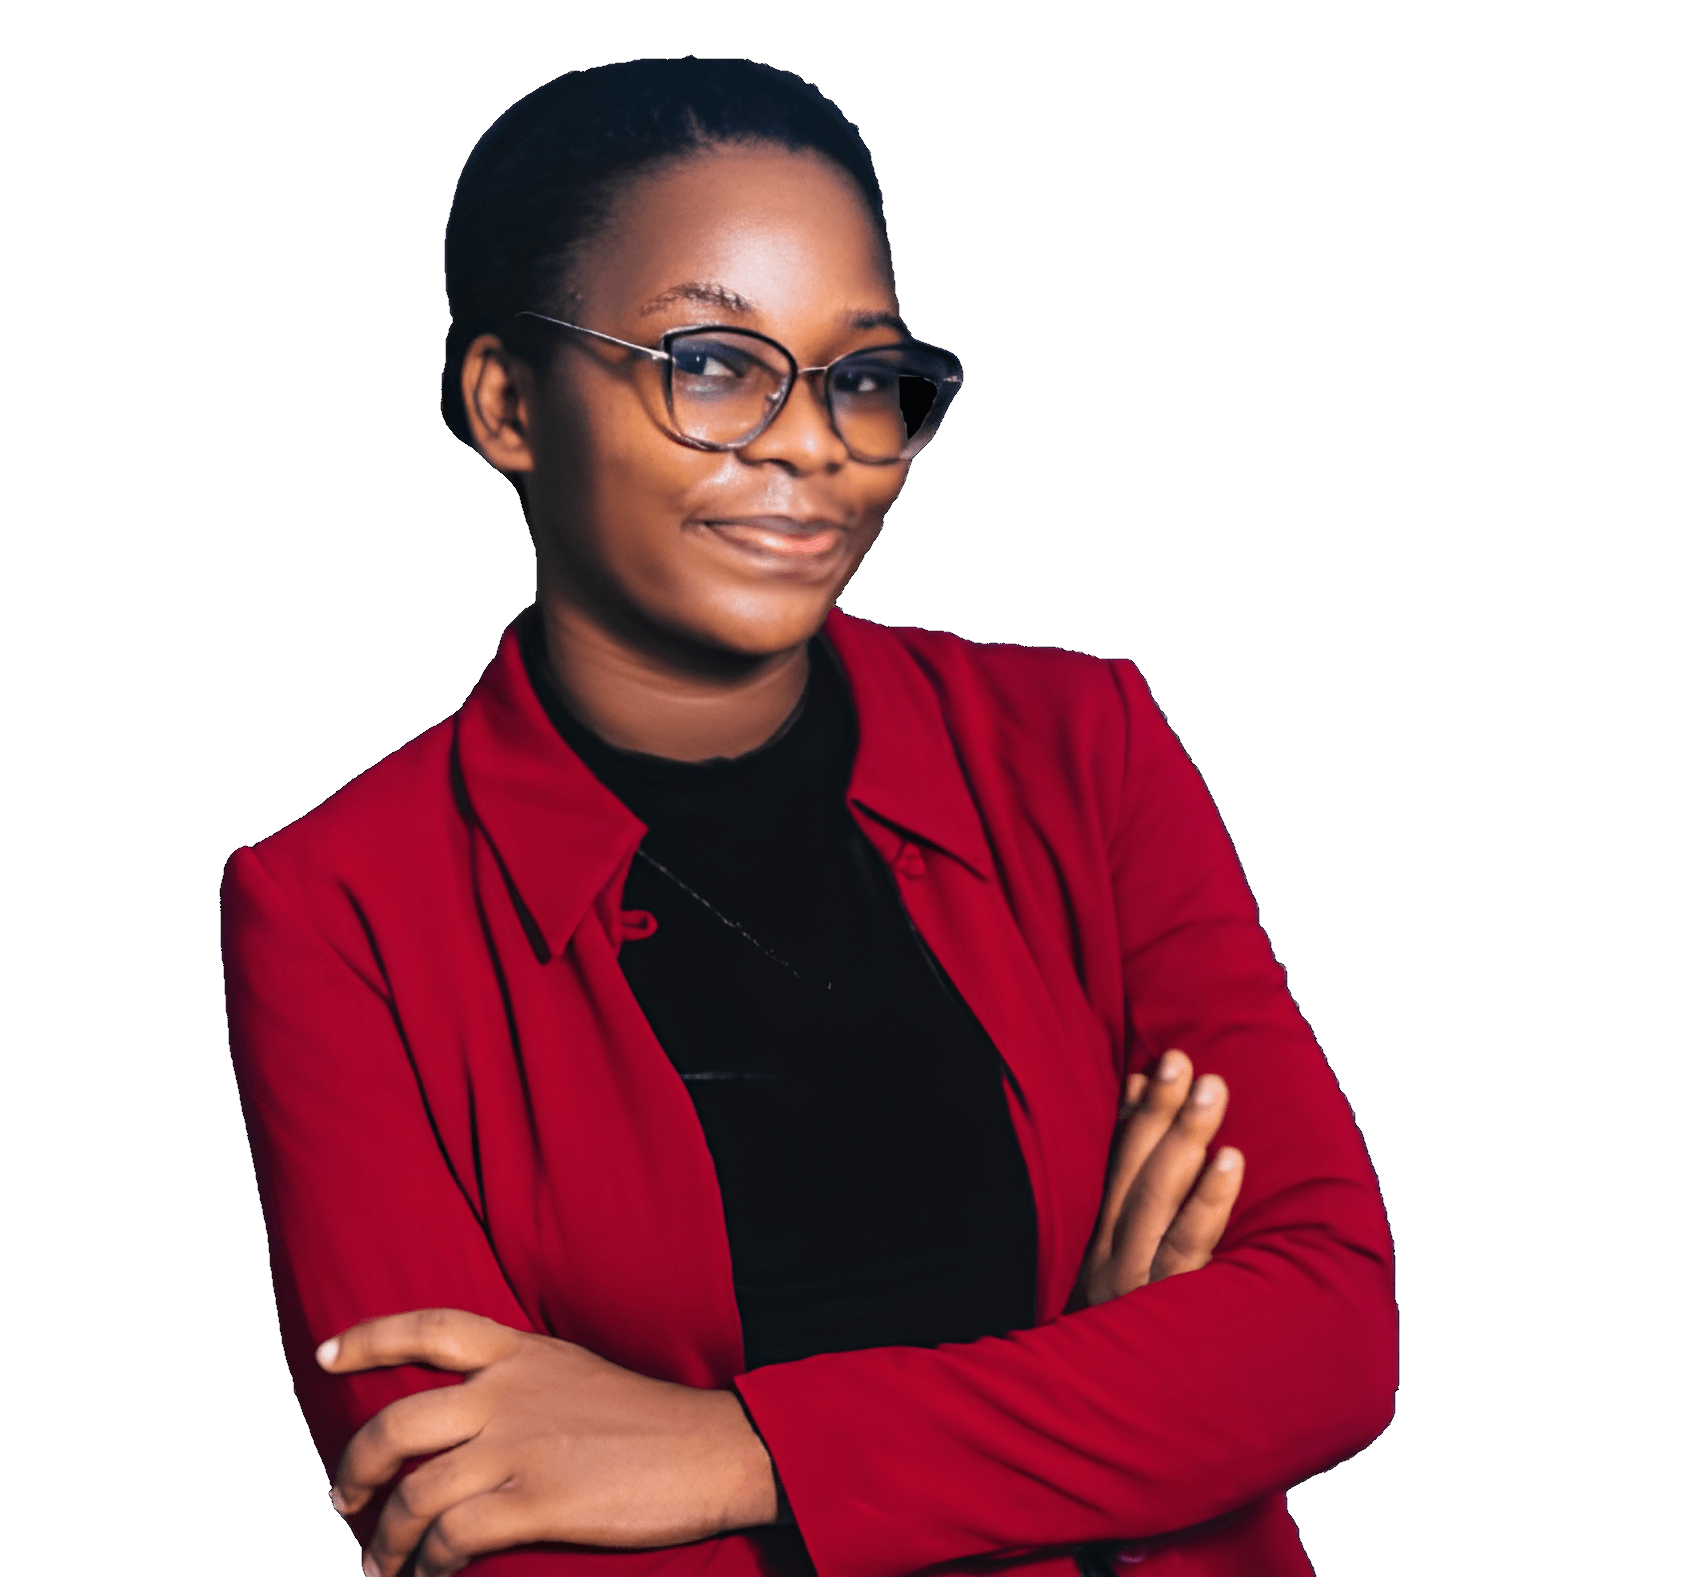
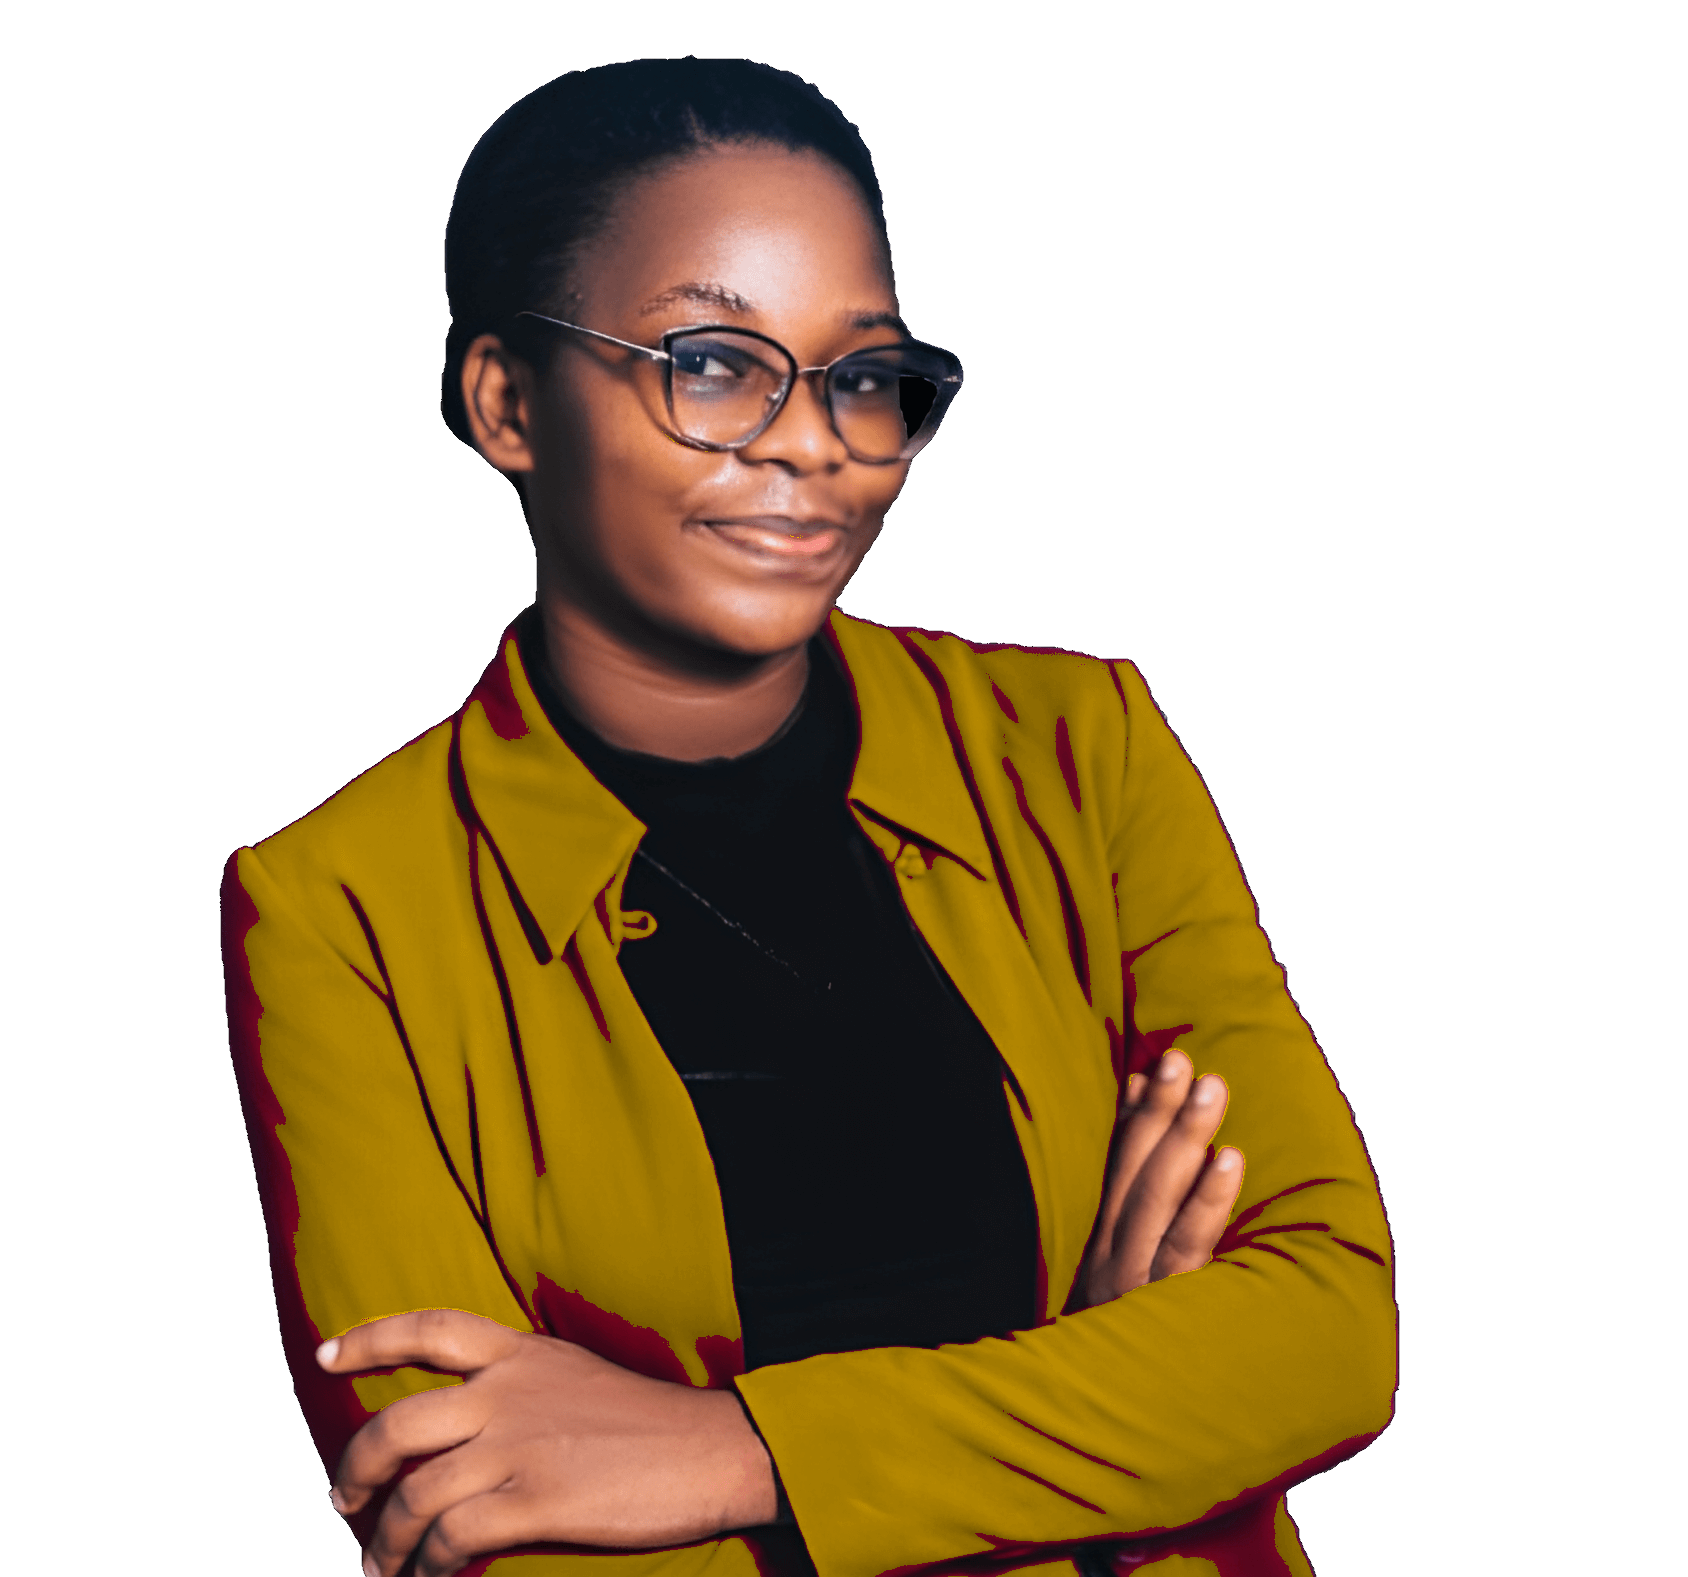
Assets and theme changed

Changed region(s): [[0.1232, 0.3729, 0.8318, 1.0], [0.2156, 0.87, 0.2773, 0.9011]]

diff --git a/assets/css/home.css b/assets/css/home.css
@@ -21,7 +21,7 @@ section#home {
     height: 100%;
     opacity: 0.3;
 } */
-.video-bg {
+/* .video-bg {
     position: absolute;
     top: 0;
     left: 0;
@@ -37,7 +37,7 @@ video.video-bg__content {
     top: 0;
     left: 0;
     z-index: -1;
-}
+} */
 
 .home-content-wrapper {
     display: grid;
@@ -55,7 +55,7 @@ h1.hom-title {
 
 button.form-trigger-btn, button.form-trigger-btn-2 {
     background-color: var(--pry-color);
-    color: white;
+    color: black;
     font-family: var(--font-smbold);
     font-size: 16px;
     padding: 14px 32px;
@@ -73,7 +73,7 @@ button.form-trigger-btn-2 {
     font-size: 12px;
     padding: 8px 12px;
     width: fit-content;
-    background: rgba(195, 33, 30, 0.8);
+    background: rgba(254, 192, 7, 0.8);
     color: white;
     border-radius: 6px;
     margin-bottom: 16px;
@@ -93,7 +93,7 @@ ul.checkmark-list {
 ul.checkmark-list li {
     font-size: 12px;
     font-family: var(--font-smbold);
-    border: 1px solid black;
+    border: 1px solid whitesmoke;
     padding: 10px 20px;
     border-radius: 12px;
     line-height: 1.5;
@@ -137,3 +137,70 @@ ul.checkmark-list li {
 }
 
 /**** end of Hero-Section Styles ****/
+
+
+/**** Testimonial-Section Styles ****/
+section#testimonials {
+    position: relative;
+    padding: 50px 0;
+}
+section#testimonials::before {
+    position: absolute;
+    content: "";
+    width: 100%;
+    height: 100%;
+    left: 0;
+    top: 0;
+    /* background: url(../images/wave-2.svg); */
+    background-size: 100%;
+    background-position: top;
+    background-repeat: no-repeat;
+}
+.testimony-block {
+    display: flex;
+    flex-direction: column;
+    align-items: flex-start;
+}
+.testimonials-wrapper {
+    /* margin: 30px auto 15px;
+    width: 90%; */
+    display: grid;
+    grid-template-columns: repeat(3, 1fr);
+    gap: 30px;
+    margin: 50px auto;
+}
+.testimony-block img {
+    width: 80px;
+    border-radius: 50%;
+}
+.testimony-block blockquote {
+    border-left: 5px solid white;
+    font-size: 20px;
+    /* border-left: none; */
+    /* padding: 15px; */
+    margin-left: 30px;
+}
+.testimony-block blockquote div.testifier {
+    font-size: 14px;
+    opacity: 0.8;
+    margin-top: 15px;
+}
+
+@media(max-width: 992px) {}
+
+@media(max-width: 600px) {
+    .testimonials-wrapper {
+        margin-top: 60px;
+        display: flex;
+        flex-direction: column;
+        gap: 50px;
+    }
+    .testimony-block {
+        flex-direction: column;
+        gap: 30px;
+    }
+    .testimony-block blockquote {
+        margin: auto;
+    }
+}
+/**** end of Testimonial-Section Styles ****/

diff --git a/components/Footer.vue b/components/Footer.vue
@@ -4,16 +4,16 @@
         <div class="container">
           <div class="footer-text-wrapper max-w-[898px] mt-[60px] mb-[15px] mx-auto text-center">
             <div class="footer-logo flex justify-center mt-[50px] mb-[30px]">
-              <img src="~/assets/images/dms-logo.png" alt="DMS" class="w-[150px] md:w-[200px]">
+              <img src="~/assets/images/DMS-logo-yellow.png" alt="DMS" class="w-[150px] md:w-[200px]">
             </div>
 
-            <div class="footer-tnc-wrapper my-[30px]">
+            <div class="footer-tnc-wrapper my-[30px] text-[14px]">
                 <a href="#privacy-policy">Privacy Policy</a>
                 <span>|</span>
                 <a href="#terms-and-conditions">Terms of Service</a>
             </div>
 
-            <div class="contacts-wrapper flex-div gap-[40px] justify-center my-[30px]">
+            <div class="contacts-wrapper flex-div gap-[40px] justify-center my-[30px] text-[16px] md:text-[18px]">
                 <div class="contact-item flex-div gap-[5px]">
                     <img src="~/assets/images/phone.svg" alt="phone">
                     <div>
@@ -43,7 +43,7 @@
               </a>
             </div>
 
-            <div class="footer-copyright-div text-[#212337] text-[16px] md:text-[18px]">
+            <div class="footer-copyright-div text-[#ffffffa3] text-[14px]">
               © {{ new Date().getFullYear() }} Digital Milestone Solutions. All rights reserved
             </div>
           </div>

diff --git a/assets/css/navbar.css b/assets/css/navbar.css
@@ -13,7 +13,7 @@ nav.main-nav {
 nav.main-nav.scrolled-nav {
     position: fixed;
     top: 0;
-    background-color: white;
+    background-color: black;
 }
 
 nav ul a:hover {
@@ -33,7 +33,7 @@ ul#nav-mobile ul:not(.dropdown-content)>li {
 }
 
 nav.main-nav ul>li>a {
-    color: #010101;
+    color: #ffffff;
     font-weight: 400;
     font-size: 14px;
     line-height: 16px;
@@ -48,7 +48,7 @@ a.nuxt-link-active {
 
 nav.main-nav.scrolled-nav ul>li>a,
 nav.main-nav.nav-2 ul>li>a {
-    color: #1A242D;
+    color: #ffffff;
 }
 
 nav.main-nav.scrolled-nav ul>li>a:hover,
@@ -210,12 +210,12 @@ ul#slide-out li a.sidenav-close button {
 #nav-wrapper ul > li > .get-started-btn.btn {
     border-radius: 100px;
     background-color: var(--pry-color);
-    color: whitesmoke;
+    color: black;
     height: 42px;
     width: auto;
     line-height: 42px;
     font-family: var(--font-smbold);
-    font-size: 14px;
+    font-size: 13px;
     margin: 0;
     position: relative;
     top: -2px;

diff --git a/components/Navbar.vue b/components/Navbar.vue
@@ -5,7 +5,7 @@
             <div class="container full-height">
                 <div class="nav-wrapper">
                     <nuxt-link to="/" class="brand-logo" @click="scrollToTop()">
-                        <img src="~/assets/images/dms-logo.png" alt="DMS" class="logo">
+                        <img src="~/assets/images/DMS-logo-yellow.png" alt="DMS" class="logo">
                     </nuxt-link>
 
                     <ul id="nav-mobile-2" class="dn-mobile ul-nav">
@@ -53,7 +53,7 @@
         <ul id="slide-out" class="sidenav">
             <div class="sidenav-logo">
                 <nuxt-link to="/" class="sidenav-close" @click="scrollToTop()">
-                    <img src="~/assets/images/dms-logo.png" alt="DMS" class="logo">
+                    <img src="~/assets/images/DMS-logo-yellow.png" alt="DMS" class="logo">
                 </nuxt-link>
             </div>
             <ul class="sidenav-flex">

diff --git a/assets/css/styles.css b/assets/css/styles.css
@@ -1,8 +1,8 @@
 @import "tailwindcss";
 
 :root {
-    --pry-color: #c3211e;
-    --sec-color: #FFAF1C;
+    --pry-color: #fec007;
+    --sec-color: #303030;
     --font: 'Manrope', sans-serif;
     --font-bold: 'Manrope-Bold', sans-serif;
     --font-smbold: 'Manrope-smBold', sans-serif;
@@ -28,12 +28,12 @@ html {
 }
 
 ::-webkit-scrollbar-thumb {
-    background: rgba(195, 33, 30, 0.9);
+    background: rgba(254, 192, 7, 0.9);
     border-radius: 10px;
 }
 
 ::-webkit-scrollbar-thumb:hover {
-    background: rgba(195, 33, 30, 0.4);
+    background: rgba(254, 192, 7, 0.4);
 }
 
 .__nuxt-error-page {
@@ -47,8 +47,8 @@ body {
     font-family: var(--font);
     height: auto;
     min-height: 100vh;
-    background-color: white;
-    color: black;
+    background-color: black;
+    color: white;
     width: 100%;
     overflow-x: hidden;
     overscroll-behavior: contain;

diff --git a/nuxt.config.ts b/nuxt.config.ts
@@ -14,7 +14,7 @@ export default defineNuxtConfig({
   app: {
     head: {
       link: [
-        { rel: 'icon', type: 'image/png', href: '/dms.png' }
+        { rel: 'icon', type: 'image/png', href: '/DMS-icon.jpg' }
       ],
       title: 'Digital Milestone Solutions',
       // titleTemplate: '%s - Digital Milestone Solutions',
@@ -36,7 +36,7 @@ export default defineNuxtConfig({
           name: 'Keywords',
           content: 'digital milestone solutions, digital tools, creative strategies, small business, scale',
         },
-        { name: 'theme-color', content: '#c3211e' },
+        { name: 'theme-color', content: '#fec007' },
       ],
     },
   },

diff --git a/components/HeroSection.vue b/components/HeroSection.vue
@@ -1,11 +1,11 @@
 <template>
     <section id="home" class="scrollspy">
-        <div class="video-bg">
+        <!-- <div class="video-bg">
             <video autoplay muted loop class="video-bg__content">
                 <source src="~/assets/video-bg.mp4" type="video/mp4">
                 Your browser does not support the video tag.
             </video>
-        </div>
+        </div> -->
         <div class="row relative full-height">
             <div class="container full-height flex items-center">
                 <div class="home-content-wrapper">

diff --git a/components/CtaSection.vue b/components/CtaSection.vue
@@ -31,12 +31,12 @@ export default {
     justify-content: center;
 }
 .cta-block .button-group .form-trigger-btn-2 {
-    border-color: #fff;
-    color: #fff;
+    border-color: black;
+    color: black;
 }
 .cta-block .button-group .form-trigger-btn {
-    background-color: #fff;
-    color: var(--pry-color);
-    border-color: #fff;
+    background-color: black;
+    color: white;
+    border-color: black;
 }
 </style>

diff --git a/assets/css/footer.css b/assets/css/footer.css
@@ -1,13 +1,13 @@
 footer {
-    background-color: white;
-    color: black;
+    background-color: black;
+    color: white;
     padding: 1px 0;
+    font-size: 16px;
 }
 footer a {
-    color: black;
+    color: white;
     text-decoration: none;
     font-family: var(--font-smbold);
-    font-size: 16px;
 }
 .footer-copyright-div {
     font-family: var(--font-smbold);

diff --git a/assets/css/cta-widget.css b/assets/css/cta-widget.css
@@ -9,7 +9,7 @@ section#cta {
     max-width: 800px;
     border-radius: 16px;
     background: var(--pry-color);
-    color: white;
+    color: black;
     margin: auto;
     padding: 30px;
     position: relative;
